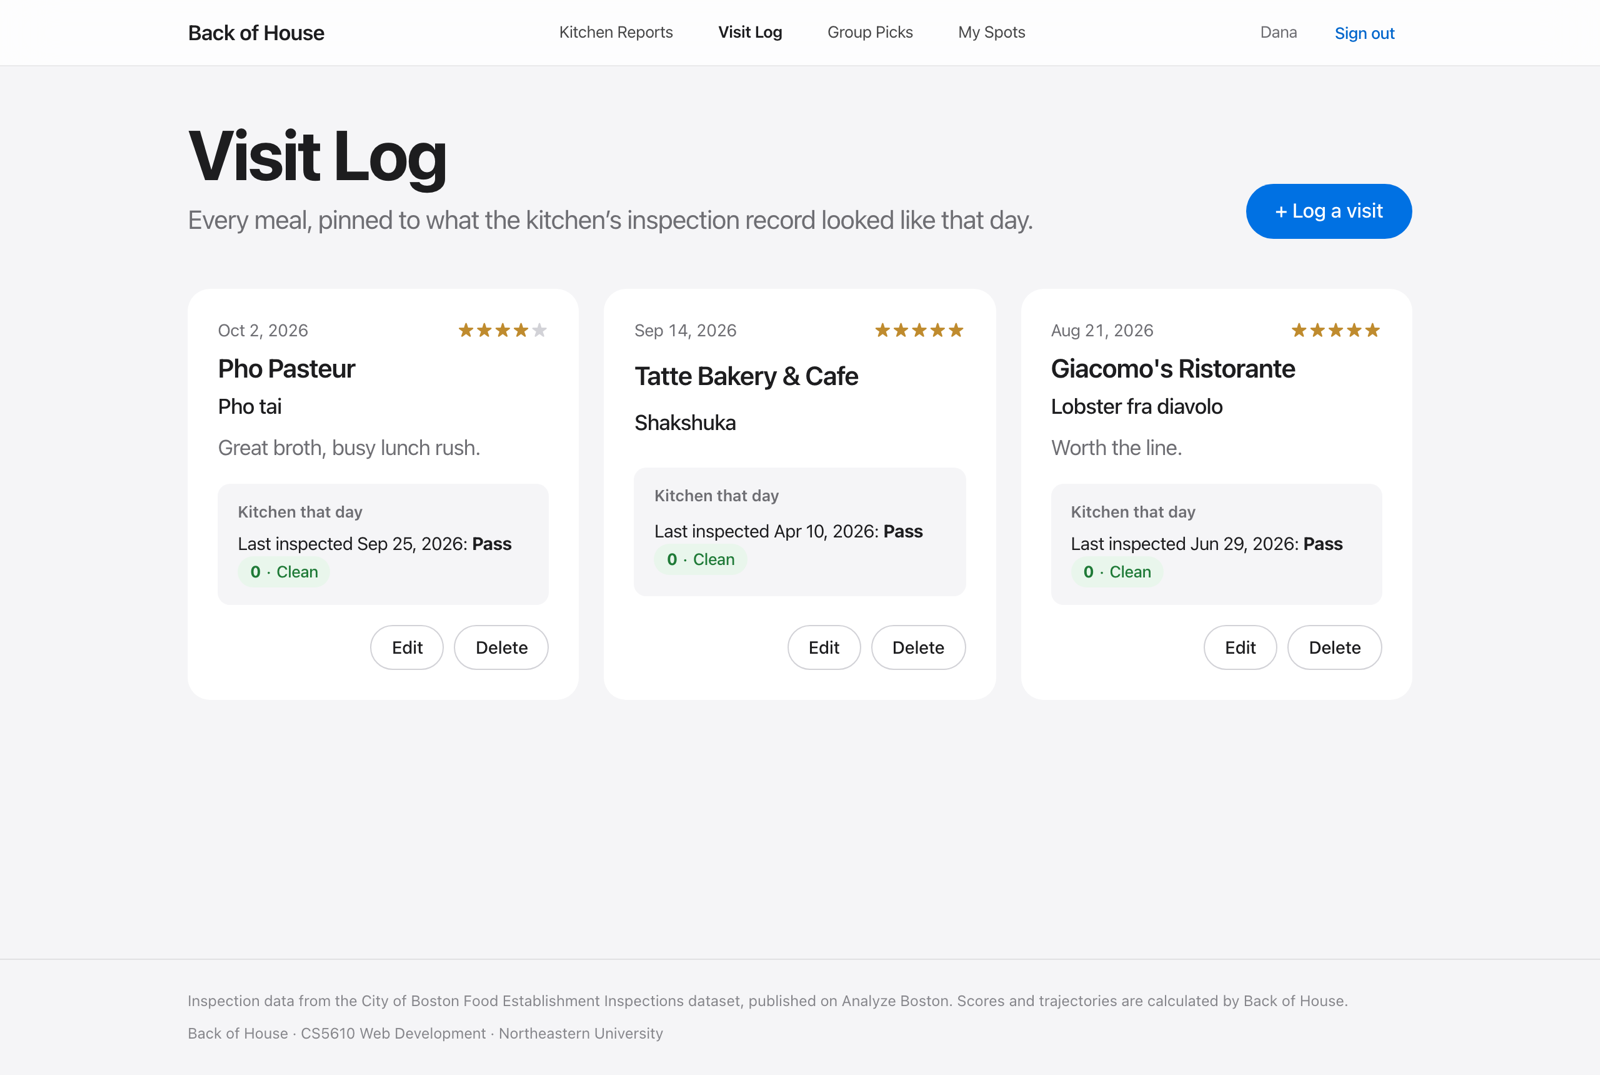
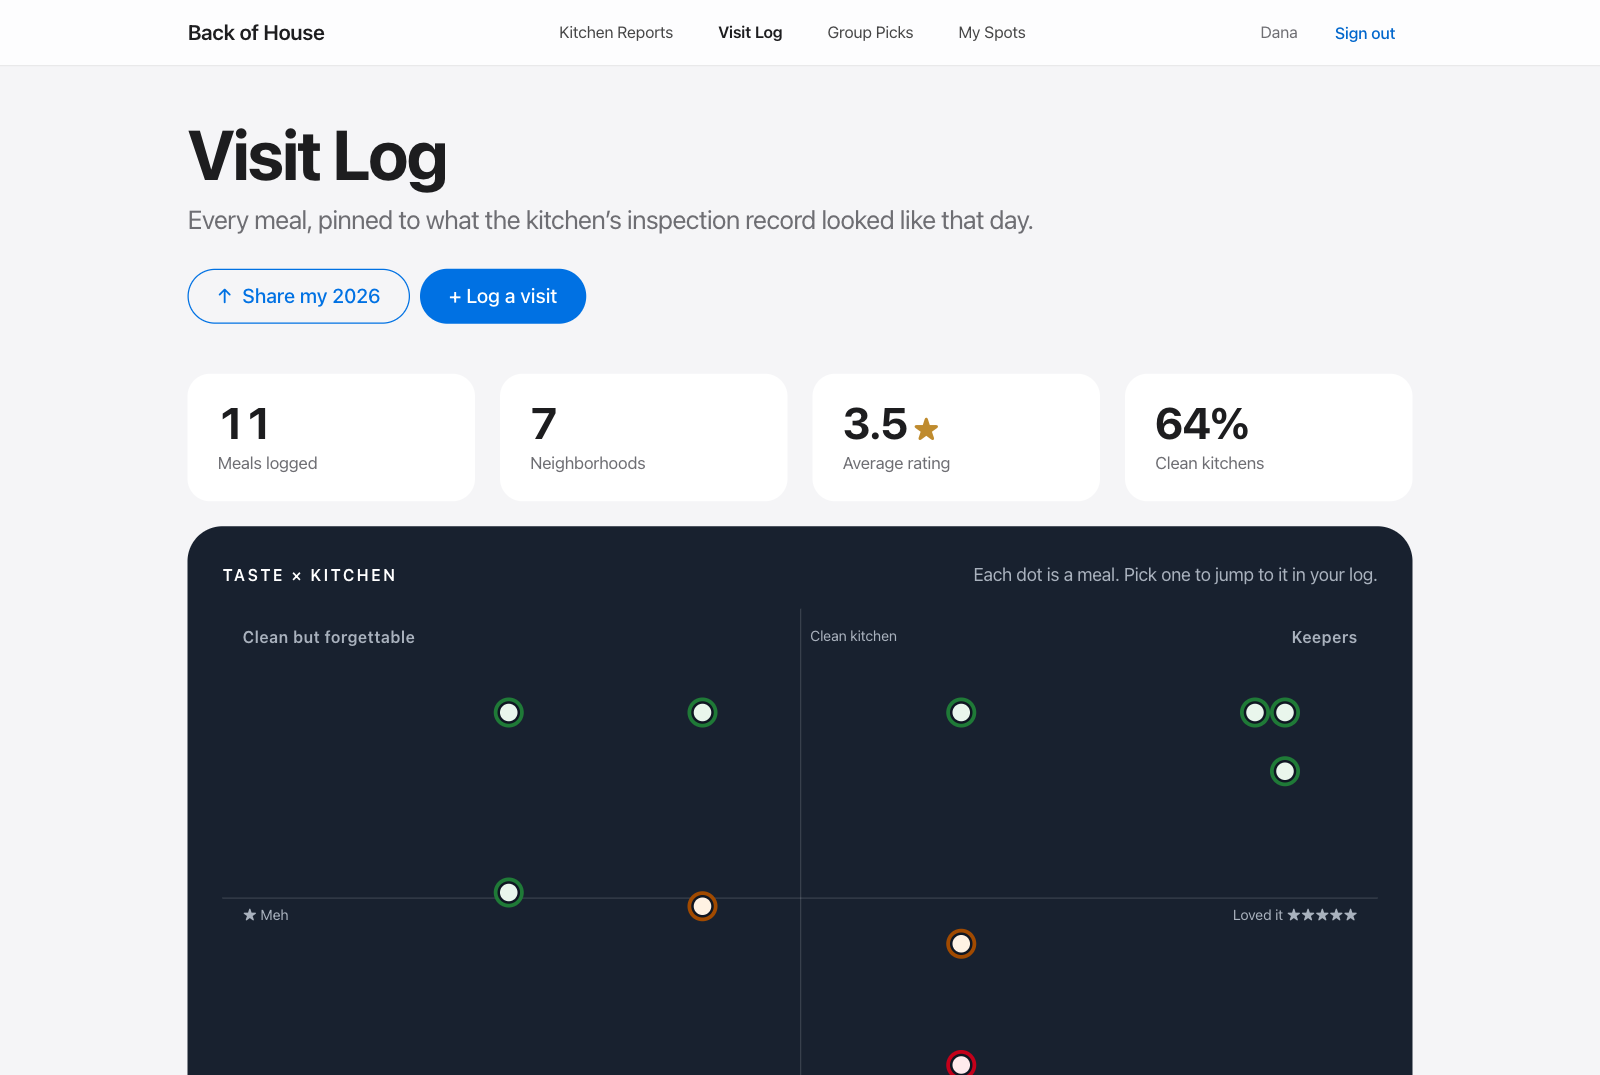
docs(design): mockups for sign-in, Kitchen Weather and Visit Log v2

diff --git a/docs/DESIGN.md b/docs/DESIGN.md
@@ -63,9 +63,15 @@ on white and light grey, one blue for actions, and colour only where it carries 
 | Screen                | Persona | Mockup                                                   |
 | --------------------- | ------- | -------------------------------------------------------- |
 | Home + instructions   | Anyone  | [`home.png`](mockups/home.png)                           |
+| Sign in               | Anyone  | [`login.png`](mockups/login.png)                         |
+| Sign up               | Anyone  | [`register.png`](mockups/register.png)                   |
+| Email code            | Anyone  | [`verify.png`](mockups/verify.png)                       |
 | Kitchen Reports       | Priya   | [`restaurants.png`](mockups/restaurants.png)             |
+| Kitchen Weather       | Priya   | [`kitchen-weather.png`](mockups/kitchen-weather.png)     |
 | Kitchen Report detail | Priya   | [`restaurant-detail.png`](mockups/restaurant-detail.png) |
 | Visit Log             | Dana    | [`visits.png`](mockups/visits.png)                       |
+| Taste × Kitchen map   | Dana    | [`visits-taste-map.png`](mockups/visits-taste-map.png)   |
+| Log a visit           | Dana    | [`visit-form.png`](mockups/visit-form.png)               |
 | Group Picks           | Marcus  | [`polls.png`](mockups/polls.png)                         |
 | Poll + comparison     | Priya   | [`poll-detail.png`](mockups/poll-detail.png)             |
 | My Spots              | Dana    | [`spots.png`](mockups/spots.png)                         |
@@ -77,12 +83,29 @@ The product-page intro: what Back of House does and where to start.
 
 ![Home page](mockups/home.png)
 
+### Sign in and sign up
+
+Email and password, or Continue with Google. A new account gets a 6-digit code by email before
+its first sign-in.
+
+![Sign in](mockups/login.png)
+
+![Sign up](mockups/register.png)
+
+![Email code](mockups/verify.png)
+
 ### Kitchen Reports (stories 1 and 2)
 
 Priya searches by name and filters by neighborhood and trajectory. Each card shows the headline
 severity score and whether the kitchen is Improving, Steady or Slipping.
 
 ![Kitchen Reports search](mockups/restaurants.png)
+
+Kitchen Weather, above the search: a dot map of Boston showing where inspectors found concerns
+each quarter since 2023. Press play to watch it change, or pick a neighborhood to list its
+kitchens below.
+
+![Kitchen Weather map](mockups/kitchen-weather.png)
 
 Opening a restaurant shows its severity meter, the trajectory chart of recent inspections, and
 every violation decoded into plain English.
@@ -91,10 +114,21 @@ every violation decoded into plain English.
 
 ### Visit Log (story 3)
 
-Dana's meals, each paired with what the kitchen's inspection record looked like on that day.
+Dana's meals, each paired with what the kitchen's inspection record looked like on that day,
+grouped by month. A stats row sums up the log, and "Share my 2026" turns it into a recap card.
 Add, edit and delete visits from this page.
 
 ![Visit Log](mockups/visits.png)
+
+The Taste × Kitchen map plots every meal by rating and kitchen score. Picking a dot or a corner
+(Keepers, Worth a second look, Clean but forgettable, Skip next time) filters the log and jumps
+to that visit.
+
+![Taste × Kitchen map](mockups/visits-taste-map.png)
+
+Logging a visit: pick the restaurant, then the date, dish, stars and notes.
+
+![Log a visit form](mockups/visit-form.png)
 
 ### Group Picks (stories 4 and 5)
 
